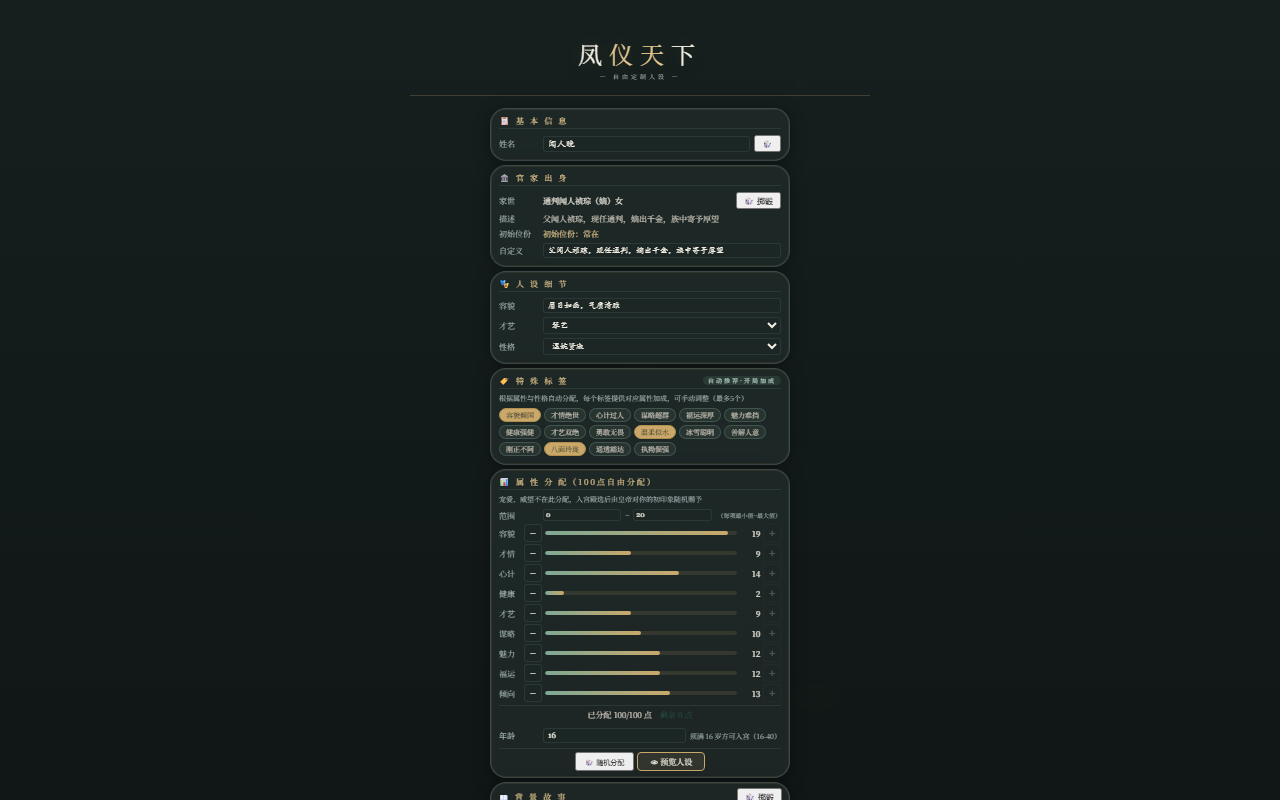
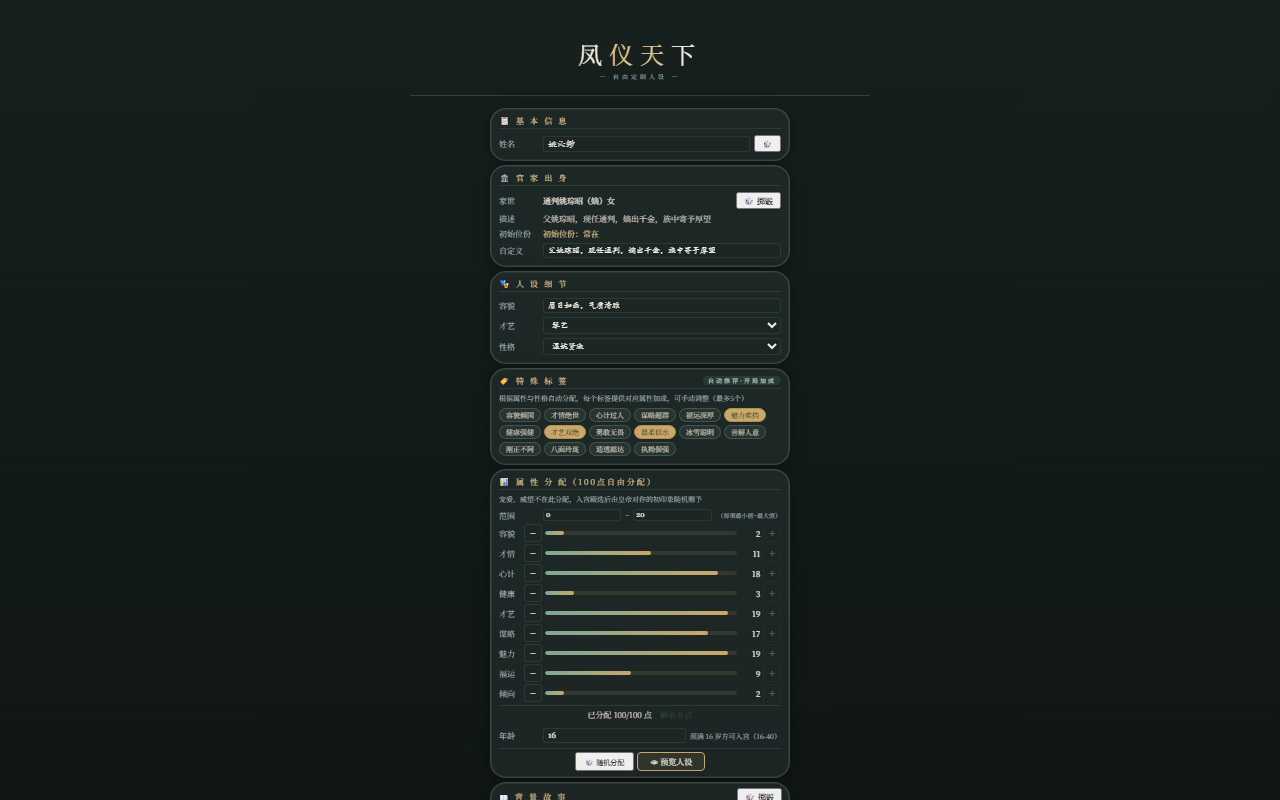
feat: 重要事件串行弹窗（分级 key_events + 前端队列，逐层点击推进）
- app.py 新增 classify_key_events：按关键词把转旬情报分三级
  L1 大事（终局/谋逆伏诛/登基称制还政）· L2 要事（晋封/诞育/放榜/冷宫）
  · L3 动静（危警/宗室/前朝），按级排序、单次上限6条，琐事一律不弹
- next_period 返回 key_events（intelligence_list 保持不变）
- 前端串行弹窗队列：_modalQueue + _pumpModal，closeModal 时自动推进下一层，
  一次只显示一层，须玩家点击「知道了」才进入下一条；标题带分类图标，
  右下角显示「还有 N 条待阅」；入队不抢占正在显示的弹窗
- 选秀放榜事件（draft_events）同样改走弹窗队列
- 修正过宽的「入宫」关键词（原会把宗室朝见误判为新人入宫）
- 新增 verify_key_event_modal.py 32 项全过；全量回归 24 个脚本通过

diff --git a/index.html b/index.html
@@ -3042,7 +3042,30 @@ const ov=document.getElementById('modalOverlay');
 ov.classList.add('active');
 ov.style.display='flex'; // compat_prep.js 设置了 inline display:none，必须同步覆盖
 }
-function closeModal(){const ov=document.getElementById('modalOverlay');ov.classList.remove('active');ov.style.display='none';modalCallback=null;}
+function closeModal(){const ov=document.getElementById('modalOverlay');ov.classList.remove('active');ov.style.display='none';modalCallback=null;
+if(_modalQueue.length){setTimeout(_pumpModal,140);}else{_modalActive=false;}}
+
+// ===== 重要事件串行弹窗队列：一次只显示一层，玩家点击后才推进下一层 =====
+let _modalQueue=[];let _modalActive=false;
+function enqueueModal(opt){if(!opt)return;_modalQueue.push(opt);if(!_modalActive)_pumpModal();}
+function _pumpModal(){
+    if(!_modalQueue.length){_modalActive=false;return;}
+    const it=_modalQueue.shift();_modalActive=true;
+    const badge=_modalQueue.length?`<div style="text-align:right;font-size:7px;color:var(--text-light);margin-top:4px;">还有 ${_modalQueue.length} 条待阅</div>`:'';
+    openModal(it.title||'📌 宫中事',(it.body||'')+badge,it.confirmText||'知道了',it.callback||null,true);
+}
+function enqueueKeyEvents(list){
+    (list||[]).forEach(ev=>{
+        if(!ev)return;
+        const txt=typeof ev==='string'?ev:(ev.text||'');
+        if(!txt.trim())return;
+        const icon=(typeof ev==='object'&&ev.icon)?ev.icon:'📌';
+        const title=(typeof ev==='object'&&ev.title)?`${icon} ${ev.title}`:'📌 宫中事';
+        enqueueModal({title:title,
+            body:`<div style="font-size:11px;color:var(--text-mid);line-height:1.9;">${txt}</div>`,
+            confirmText:'知道了'});
+    });
+}
 function modalConfirm(){if(modalCallback)modalCallback();closeModal();}
 document.getElementById('modalOverlay').addEventListener('click',function(e){if(e.target===this)closeModal();});
 document.getElementById('saveListModal').addEventListener('click',function(e){if(e.target===this)closeSaveListModal();});
@@ -4369,7 +4392,7 @@ if(data.other_birth_msgs && data.other_birth_msgs.length>0){data.other_birth_msg
 if(data.prince_events && data.prince_events.length>0){data.prince_events.forEach(msg=>{addLogEntry(formatEventMsg(msg,'👑'),'prince');showToast(formatEventMsg(msg,'👑'));});}
 if(data.growth_events && data.growth_events.length>0){data.growth_events.forEach(msg=>{addLogEntry(formatEventMsg(msg,'🌱'),'prince');showToast(formatEventMsg(msg,'🌱'));});}
 if(data.chonghua_events && data.chonghua_events.length>0){data.chonghua_events.forEach(msg=>{addLogEntry(formatEventMsg(msg,'🏛'),'prince');showToast(formatEventMsg(msg,'🏛'));});}
-if(data.draft_events && data.draft_events.length>0){data.draft_events.forEach(msg=>{addLogEntry(formatEventMsg(msg,'📜'),'new-concubine');showToast(formatEventMsg(msg,'📜'));});}
+if(data.draft_events && data.draft_events.length>0){const _dm=[];data.draft_events.forEach(msg=>{addLogEntry(formatEventMsg(msg,'📜'),'new-concubine');_dm.push({icon:'📜',title:'选秀',text:formatEventMsg(msg,'📜')});});enqueueKeyEvents(_dm);}
 if(data.death_events && data.death_events.length>0){data.death_events.forEach(msg=>{addLogEntry(`🕯 ${msg}`,'demotion');showToast('🕯 宫闱噩耗','error');});}
 if(data.intrigue_events && data.intrigue_events.length>0){data.intrigue_events.forEach(msg=>addLogEntry(msg,'intel'));}
 }
@@ -6204,6 +6227,10 @@ async function nextPeriod() {
         }
         
         updateUI(d);
+        // 重要事件逐条弹窗，须玩家点击后才显示下一层
+        if (d.key_events && d.key_events.length) {
+            enqueueKeyEvents(d.key_events);
+        }
         if (d.ai_events_used && !d.ai_events_fallback) {
             showToast('🌙 转旬完成（AI 情报已更新）');
         } else if (d.ai_events_fallback) {

diff --git a/verify_key_event_modal.py b/verify_key_event_modal.py
@@ -1,0 +1,105 @@
+# -*- coding: utf-8 -*-
+"""验证：重要事件串行弹窗（后端分级 key_events + 前端队列结构）。
+
+运行：python verify_key_event_modal.py
+"""
+import io
+import os
+import re
+import sys
+
+sys.path.insert(0, os.path.dirname(os.path.abspath(__file__)))
+
+import app as A
+from app import app as flask_app
+
+PASS = 0
+FAIL = 0
+
+
+def ok(name, cond, detail=""):
+    global PASS, FAIL
+    if cond:
+        PASS += 1
+        print(f"  [OK] {name}")
+    else:
+        FAIL += 1
+        print(f"  [FAIL] {name} {detail}")
+
+
+def section(t):
+    print(f"\n=== {t} ===")
+
+
+# 1. 分级规则
+section("1. 事件分级")
+L1 = ["⚔ 晋王私藏甲胄，事败伏诛！", "👑 新帝登基，尊你为太后",
+      "🕯 白绫送进宫来", "⛓ 慈宁宫的门从外面锁上了（幽居）",
+      "🔥 复辟兵起，神器倾覆"]
+for t in L1:
+    got = A.classify_key_events([t])
+    ok(f"一级: {t[:12]}", got and got[0]["level"] == 1, got)
+L2 = ["📜 晋封为嫔", "👶 你诞下皇子承泰", "🎊 大选放榜，沈玉棠入宫",
+      "🏚 华妃被贬入冷宫"]
+for t in L2:
+    got = A.classify_key_events([t])
+    ok(f"二级: {t[:12]}", got and got[0]["level"] == 2, got)
+# 用引擎真实产出的文案，避免测试自造串与规则错配
+L3 = ["⚠ 心腹忠诚低迷，似被人收买",
+      "🏛 萧承弘入宫朝见，皇帝赐金千两，宗室与有荣焉",
+      "🏛 母家请官：兄弟谋一实缺"]
+for t in L3:
+    got = A.classify_key_events([t])
+    ok(f"三级: {t[:12]}", got and got[0]["level"] == 3, got)
+
+# 2. 琐事不弹窗
+section("2. 琐事过滤")
+trivial = ["📌 御膳房今日份例照旧", "🌿 御花园的花开了", "领取俸禄12银两", "宫中岁月静好"]
+got = A.classify_key_events(trivial)
+ok("琐事一律不弹窗", got == [], got)
+
+# 3. 排序与上限
+section("3. 排序与上限")
+mixed = ["⚠ 有人察觉了", "📜 晋封为妃", "⚔ 谋逆伏诛", "👶 诞下皇子", "🏵 宗室朝见"]
+got = A.classify_key_events(mixed)
+levels = [e["level"] for e in got]
+ok("按级别升序", levels == sorted(levels), levels)
+ok("一级最先", got and got[0]["level"] == 1, levels)
+many = A.classify_key_events(mixed * 4)
+ok(f"上限{A.KEY_EVENT_MAX}条", len(many) <= A.KEY_EVENT_MAX, len(many))
+ok("空输入安全", A.classify_key_events([]) == [] and A.classify_key_events(None) == [])
+ok("脏数据安全", A.classify_key_events(["", None, "   "]) == [])
+
+# 4. 结构完整
+section("4. 结构")
+one = A.classify_key_events(["📜 晋封为嫔"])[0]
+ok("四字段齐备", set(one) >= {"level", "icon", "title", "text"}, one)
+ok("图标与标题非空", bool(one["icon"]) and bool(one["title"]), one)
+
+# 5. API 返回
+section("5. 转旬 API")
+client = flask_app.test_client()
+r = client.post("/api/start", json={"name": "沈妃", "api_base": "", "api_key": "", "api_model": ""})
+pid = r.get_json()["player_id"]
+r = client.post("/api/next_period", json={"player_id": pid})
+d = r.get_json() or {}
+ok("转旬 200", r.status_code == 200, r.status_code)
+ok("含 key_events", isinstance(d.get("key_events"), list), list(d)[:8])
+ok("key_events 结构", all(set(e) >= {"level", "icon", "title", "text"} for e in d["key_events"]), d["key_events"][:2])
+ok("仍保留 intelligence_list", isinstance(d.get("intelligence_list"), list))
+
+# 6. 前端串行队列
+section("6. 前端队列")
+html = io.open("index.html", encoding="utf-8").read()
+ok("有队列变量", "_modalQueue" in html and "_modalActive" in html)
+ok("有入队函数", "function enqueueModal(" in html and "function enqueueKeyEvents(" in html)
+ok("有推进函数", "function _pumpModal(" in html)
+ok("closeModal 触发下一层", re.search(r"function closeModal\(\)\{[^}]*_modalQueue\.length", html) is not None)
+ok("转旬调用队列", "enqueueKeyEvents(d.key_events)" in html)
+ok("选秀事件走队列", "enqueueKeyEvents(_dm)" in html)
+ok("显示剩余条数", "还有 ${_modalQueue.length} 条待阅" in html)
+# 串行语义：入队时若已有弹窗在显示则不抢占
+ok("入队不抢占", "if(!_modalActive)_pumpModal();" in html)
+
+print(f"\n重要事件弹窗验证: {PASS} passed, {FAIL} failed")
+sys.exit(1 if FAIL else 0)

diff --git a/app.py b/app.py
@@ -8272,6 +8272,41 @@ def emperor_flip():
         "reward": reward_info
     })
 
+
+# ============================================================
+#  重要事件分级（供前端串行弹窗）
+# ============================================================
+# 每条 (关键词元组, 级别, 图标, 标题)；级别越小越先弹
+KEY_EVENT_RULES = (
+    (("终局", "赐死", "白绫", "薨逝", "驾崩", "伏诛", "病殁", "幽居", "倾覆", "废为庶人"), 1, "🕯", "大事不谐"),
+    (("案发", "谋逆", "复辟", "举兵", "事败", "败露", "抄没", "除爵", "除宗籍"), 1, "⚖", "祸起萧墙"),
+    (("登基", "继位", "称制", "改元", "还政", "撤帘", "临朝"), 1, "👑", "天命更移"),
+    (("晋封", "册立", "晋为", "晋位", "受封", "加封", "凤印"), 2, "📜", "恩旨下达"),
+    (("诞下", "喜得", "皇孙", "生下", "临盆", "有孕", "怀胎"), 2, "👶", "宗庙添丁"),
+    (("放榜", "选秀", "留用", "册封为", "奉旨入册"), 2, "🌸", "新人入宫"),
+    (("冷宫", "打入", "贬入", "出冷宫", "特赦"), 2, "🏚", "宫门开合"),
+    (("危", "警", "⚠", "弹劾", "察觉", "记恨", "背叛", "收买", "叛"), 3, "⚠", "暗流涌动"),
+    (("宗室", "亲王", "郡王", "长公主", "大宗正"), 3, "🏵", "宗室动静"),
+    (("家族", "母家", "外戚", "权臣", "朝堂", "国是", "内帑"), 3, "🏛", "前朝消息"),
+)
+KEY_EVENT_MAX = 6          # 单次转旬最多弹窗数（其余仍入日志）
+
+
+def classify_key_events(lines):
+    """从转旬情报中挑出需要弹窗确认的重要事件，按级别排序。"""
+    out = []
+    for raw in (lines or []):
+        text = str(raw or "").strip()
+        if not text:
+            continue
+        for keys, level, icon, title in KEY_EVENT_RULES:
+            if any(k in text for k in keys):
+                out.append({"level": level, "icon": icon, "title": title, "text": text})
+                break
+    out.sort(key=lambda e: e["level"])
+    return out[:KEY_EVENT_MAX]
+
+
 @app.route('/api/next_period', methods=['POST'])
 def next_period():
     data = request.get_json()
@@ -8882,6 +8917,7 @@ def next_period():
         "narration": f"📅 {game_state.get_calendar_str()}，转旬完成。",
         "intelligence": "\n".join(intelligence),
         "intelligence_list": intelligence,
+        "key_events": classify_key_events(intelligence),
         "attributes": game_state.attributes,
         "attr_max": game_state.ATTR_MAX,
         "silver": game_state.silver,
